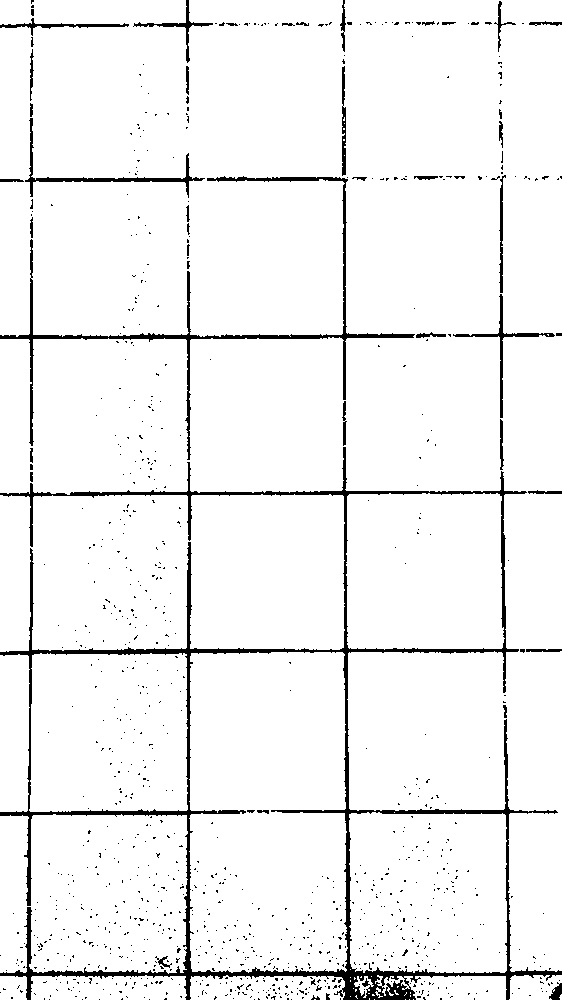
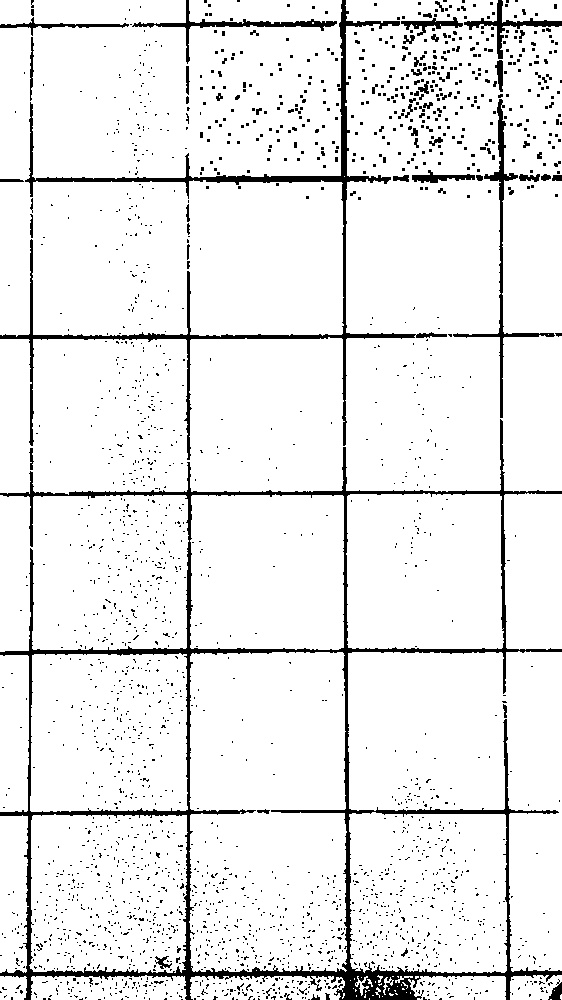
floor line get

diff --git a/hw3/floor.py b/hw3/floor.py
@@ -12,33 +12,35 @@ def get_floor() -> None:
     cv2.imwrite('floor_pic/gray.jpg', gray)
 
     _, bin = cv2.threshold(gray, 100, 255, cv2.THRESH_BINARY)
-    # cv2.imwrite('floor_pic/bin.jpg', bin)
-
-    # cv2.morphologyEx(bin, cv2.MORPH_OPEN, np.ones((3, 3)), iterations=5)
 
     blur = cv2.GaussianBlur(bin, (3, 3), 0)
     cv2.imwrite('floor_pic/blur.jpg', blur)
 
-    _, bin = cv2.threshold(blur, 150, 255, cv2.THRESH_BINARY)
-
+    # upper left area [:200, 200:] is a bit special, so use another threshold
+    _, bin = cv2.threshold(blur, 160, 255, cv2.THRESH_BINARY)
+    _, bin2 = cv2.threshold(blur, 240, 255, cv2.THRESH_BINARY)
+    # composite
+    bin[:200, 200:] = bin2[:200, 200:]
     cv2.imwrite('floor_pic/bin.jpg', bin)
-
 
     canny = cv2.Canny(bin, 50, 150)
     cv2.imwrite('floor_pic/canny.jpg', canny)
 
-    lines = cv2.HoughLines(canny, 1, np.pi/4, 250)
 
     with_line = cv2.imread('floor_pic/resize.jpg')
 
+    lines = cv2.HoughLines(canny, 1, np.pi/4, 250)
     for line in lines:
         rho, theta = line[0]
         a, b = np.cos(theta), np.sin(theta)
         x0, y0 = a * rho, b * rho
         x1, y1 = int(x0 + 1000 * (-b)), int(y0 + 1000 * (a))
         x2, y2 = int(x0 - 1000 * (-b)), int(y0 - 1000 * (a))
+
         # (target_img, left-start coord., right-end coord., color, [border-thickness, [line-type]])
         cv2.line(with_line, (x1, y1), (x2, y2), ct.red, 1, cv2.LINE_AA)
+
+    cv2.imwrite('floor_pic/line.jpg', with_line)
 
     return #  end get_floor
 
